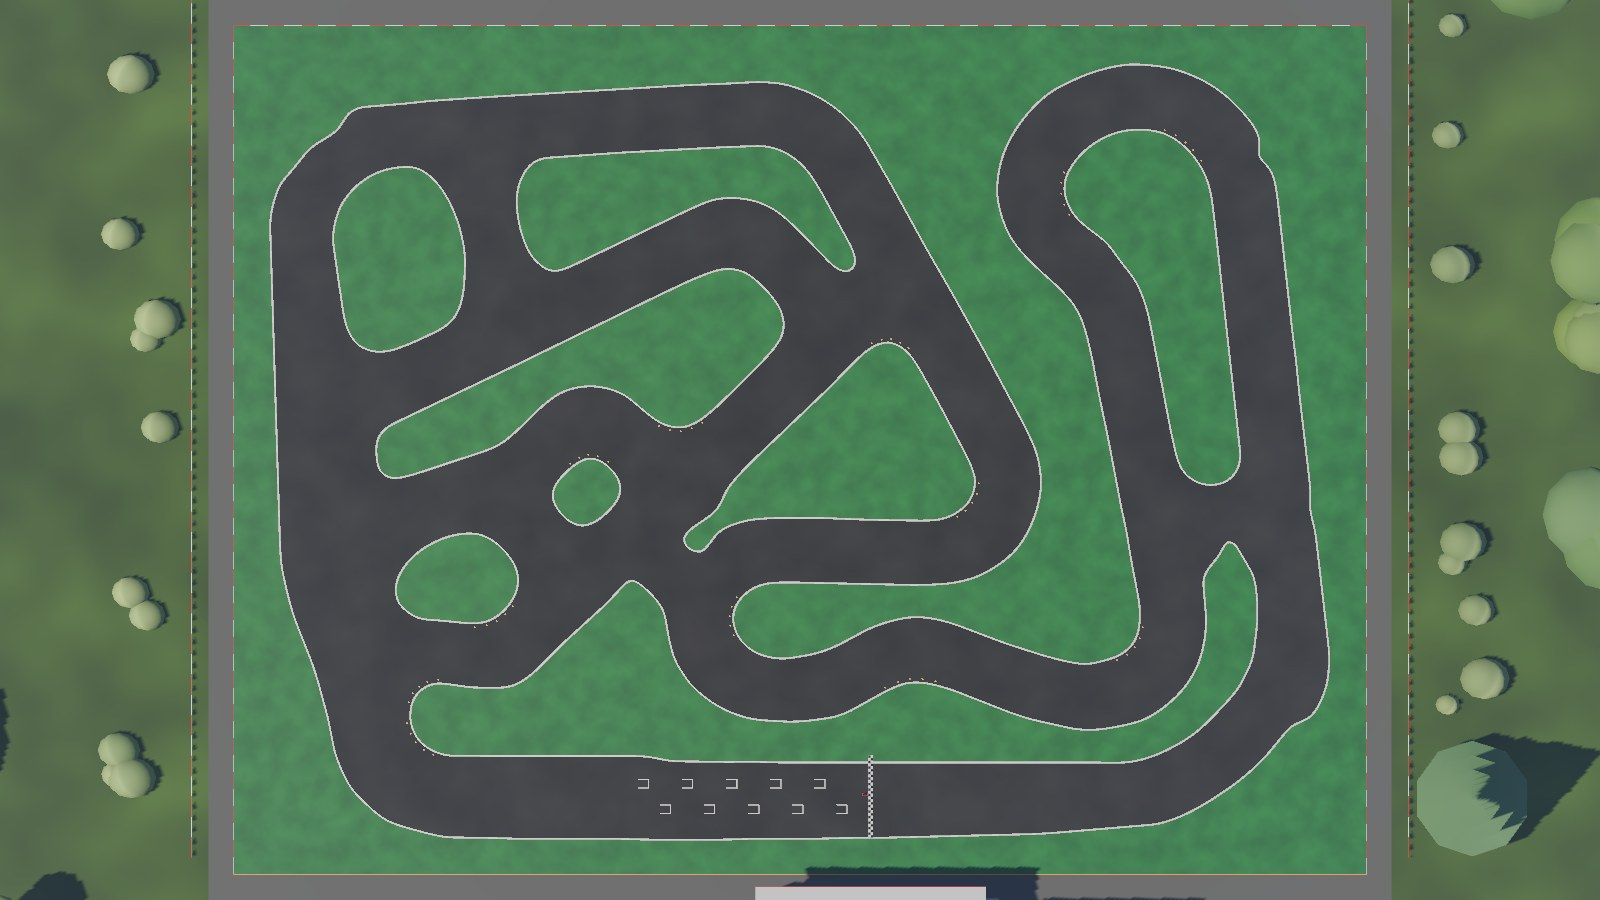
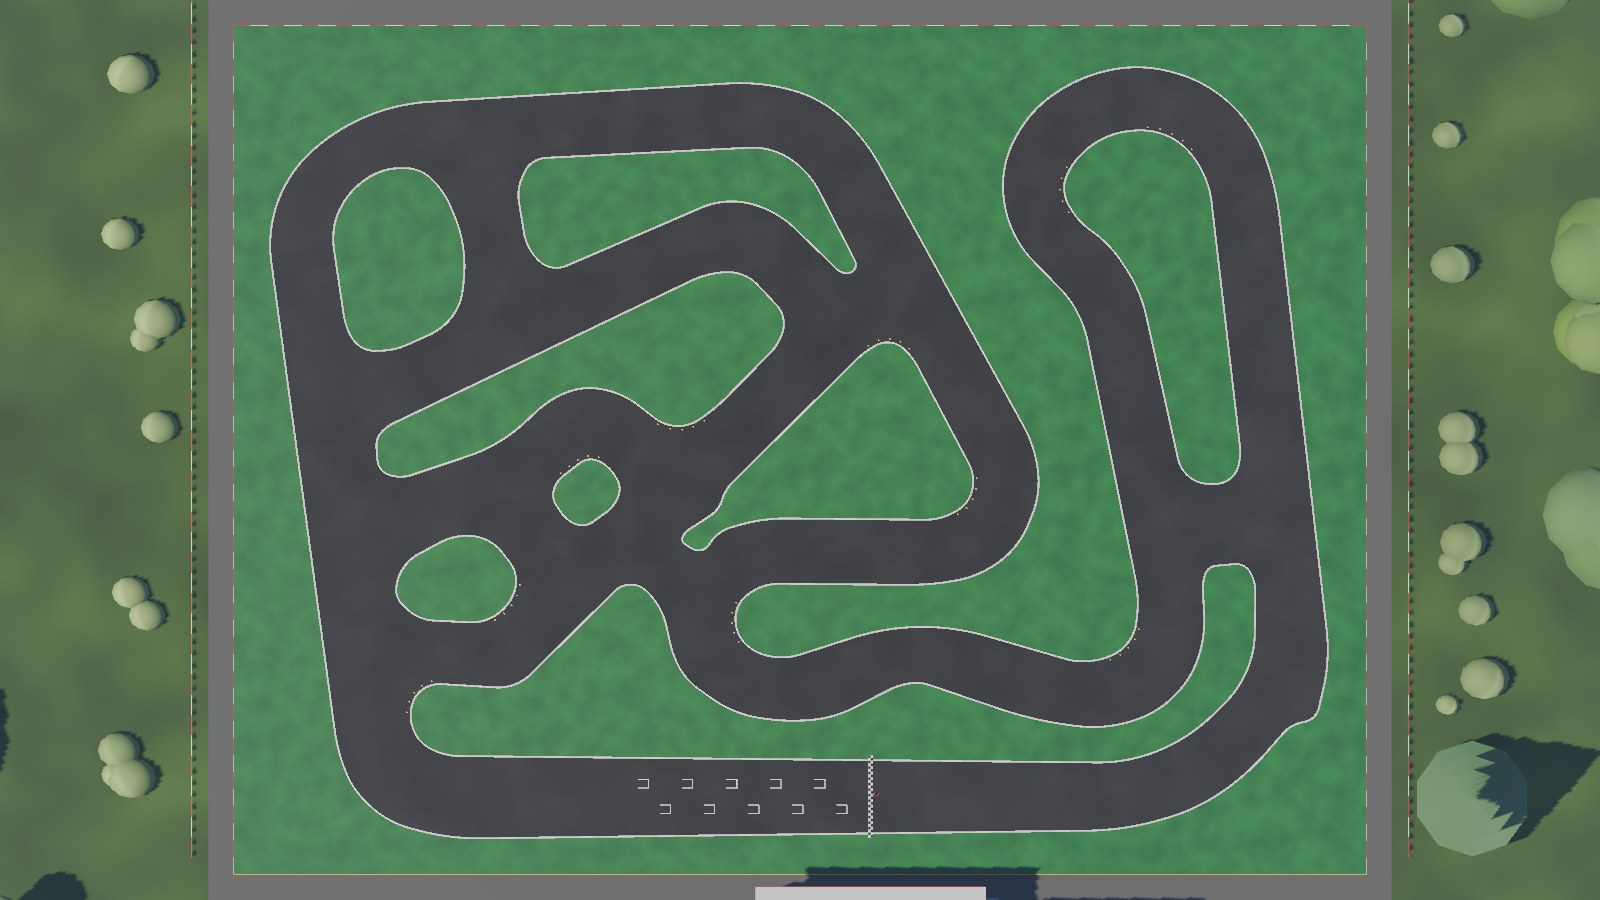
Verze 0.45: venkovní dráha Blansko, hladké hrany venkovních drah

diff --git a/index.html b/index.html
@@ -171,7 +171,7 @@ footer .wrap { display: flex; flex-wrap: wrap; gap: 8px 24px; justify-content: s
           <a class="btn-line" id="download-win" href="https://github.com/ibb-jile/onroad-rc-simulator/releases/latest/download/Onroad-RC-Simulator-Windows.zip"><span lang="cs">Windows (experimentální)</span><span lang="en">Windows (experimental)</span></a>
           <a href="#install"><span lang="cs">Jak nainstalovat</span><span lang="en">How to install</span></a>
         </div>
-        <p class="facts"><span lang="cs">Verze 0.44 · macOS 13 a novější · Mac s čipem Apple (M1 a novější) · zip 66 MB</span><span lang="en">Version 0.44 · macOS 13 or later · Mac with Apple silicon (M1 or later) · 66 MB zip</span></p>
+        <p class="facts"><span lang="cs">Verze 0.45 · macOS 13 a novější · Mac s čipem Apple (M1 a novější) · zip 66 MB</span><span lang="en">Version 0.45 · macOS 13 or later · Mac with Apple silicon (M1 or later) · 66 MB zip</span></p>
         <p class="facts"><span lang="cs">Windows 10 a 11 (64bit) · první sestavení, na skutečném PC zatím nevyzkoušené · zip 49 MB</span><span lang="en">Windows 10 and 11 (64-bit) · first build, not yet tried on a real PC · 49 MB zip</span></p>
       </div>
       <aside class="board" aria-label="Lap times">
@@ -180,7 +180,8 @@ footer .wrap { display: flex; flex-wrap: wrap; gap: 8px 24px; justify-content: s
           <tr><td><span lang="cs">Nákres 8 × 6</span><span lang="en">Sketch 8 × 6</span></td><td class="t">14.22<small>s</small></td></tr>
           <tr><td>Rychvald</td><td class="t">15.83<small>s</small></td></tr>
           <tr><td>Jedovnice</td><td class="t">13.82<small>s</small></td></tr>
-          <tr><td><span lang="cs">Svitavy (venkovní)</span><span lang="en">Svitavy (outdoor)</span></td><td class="t">18.31<small>s</small></td></tr>
+          <tr><td><span lang="cs">Svitavy (venkovní)</span><span lang="en">Svitavy (outdoor)</span></td><td class="t">18.14<small>s</small></td></tr>
+          <tr><td><span lang="cs">Blansko (venkovní)</span><span lang="en">Blansko (outdoor)</span></td><td class="t">12.51<small>s</small></td></tr>
         </table>
         <p class="note"><span lang="cs">Výchozí setup: motor 17.5T, převod 4.5, koberec 26.4 × 19.8 m. Dokážeš být rychlejší?</span><span lang="en">Default setup: 17.5T motor, 4.5 ratio, 26.4 × 19.8 m carpet. Can you beat it?</span></p>
       </aside>
@@ -220,7 +221,7 @@ footer .wrap { display: flex; flex-wrap: wrap; gap: 8px 24px; justify-content: s
         </div>
         <div>
           <h3><span lang="cs">Skutečné tratě</span><span lang="en">Real tracks</span></h3>
-          <p><span lang="cs">Čtyři kobercové tratě <span class="unit">26.4 × 19.8 m</span> s dělicími pásy, poklicemi a terči: Nákres 8 × 6, Jedovnice a Rychvald ve dvou podobách, s mantinely nebo s nízkými pásy, které jdou přejet. Časomíra měří kola na milisekundy a kolo se zkrácenou tratí nepočítá. Nově i venkovní asfaltová dráha Svitavy <span class="unit">46 × 62 m</span> s tribunou řidičů.</span><span lang="en">Four carpet tracks <span class="unit">26.4 × 19.8 m</span> with dividers, dots and apex markers: Sketch 8 × 6, Jedovnice and Rychvald in two versions, with barriers or with low strips you can drive over. Lap timing to the millisecond, and a lap with a cut track does not count. New: the outdoor asphalt track Svitavy <span class="unit">46 × 62 m</span> with a driver stand.</span></p>
+          <p><span lang="cs">Čtyři kobercové tratě <span class="unit">26.4 × 19.8 m</span> s dělicími pásy, poklicemi a terči: Nákres 8 × 6, Jedovnice a Rychvald ve dvou podobách, s mantinely nebo s nízkými pásy, které jdou přejet. Časomíra měří kola na milisekundy a kolo se zkrácenou tratí nepočítá. K tomu dvě venkovní asfaltové dráhy s tribunou řidičů: Svitavy <span class="unit">46 × 62 m</span> a Blansko <span class="unit">57 × 23 m</span>.</span><span lang="en">Four carpet tracks <span class="unit">26.4 × 19.8 m</span> with dividers, dots and apex markers: Sketch 8 × 6, Jedovnice and Rychvald in two versions, with barriers or with low strips you can drive over. Lap timing to the millisecond, and a lap with a cut track does not count. Plus two outdoor asphalt tracks with a driver stand: Svitavy <span class="unit">46 × 62 m</span> and Blansko <span class="unit">57 × 23 m</span>.</span></p>
         </div>
         <div>
           <h3><span lang="cs">Trénink</span><span lang="en">Practice tools</span></h3>
@@ -253,6 +254,14 @@ footer .wrap { display: flex; flex-wrap: wrap; gap: 8px 24px; justify-content: s
         <figure>
           <img src="img/svitavy-top.jpg" width="1600" height="900" loading="lazy" alt="Top view of the outdoor track Svitavy with the finish line and the starting grid">
           <figcaption><span lang="cs">Svitavy shora: 46 × 62 m, cílová čára a startovní rošt před tribunou.</span><span lang="en">Svitavy from above: 46 × 62 m, the finish line and the starting grid in front of the driver stand.</span></figcaption>
+        </figure>
+        <figure>
+          <img src="img/blansko-top.jpg" width="1600" height="900" loading="lazy" alt="Top view of the outdoor track Blansko with blue painted areas, hairpins and a long straight">
+          <figcaption><span lang="cs">Blansko shora: úzký areál 57 × 23 m, vlásenky a dlouhá rovinka u tribuny.</span><span lang="en">Blansko from above: a narrow 57 × 23 m venue, hairpins and a long straight along the driver stand.</span></figcaption>
+        </figure>
+        <figure>
+          <img src="img/blansko-stand.jpg" width="1600" height="900" loading="lazy" alt="View from the driver stand in Blansko with the car on the far side of the track">
+          <figcaption><span lang="cs">Blansko z tribuny: kamera řidiče přibližuje auto na vzdálené straně dráhy.</span><span lang="en">Blansko from the driver stand: the driver camera zooms in on the car on the far side.</span></figcaption>
         </figure>
         <figure>
           <img src="img/setup-esc.jpg" width="1600" height="900" loading="lazy" alt="Car setup dialog with ESC settings and a throttle and brake graph">

diff --git a/src/page.html b/src/page.html
@@ -165,7 +165,7 @@ footer .wrap { display: flex; flex-wrap: wrap; gap: 8px 24px; justify-content: s
           <a class="btn-line" id="download-win" href="https://github.com/ibb-jile/onroad-rc-simulator/releases/latest/download/Onroad-RC-Simulator-Windows.zip"><span lang="cs">Windows (experimentální)</span><span lang="en">Windows (experimental)</span></a>
           <a href="#install"><span lang="cs">Jak nainstalovat</span><span lang="en">How to install</span></a>
         </div>
-        <p class="facts"><span lang="cs">Verze 0.44 · macOS 13 a novější · Mac s čipem Apple (M1 a novější) · zip 66 MB</span><span lang="en">Version 0.44 · macOS 13 or later · Mac with Apple silicon (M1 or later) · 66 MB zip</span></p>
+        <p class="facts"><span lang="cs">Verze 0.45 · macOS 13 a novější · Mac s čipem Apple (M1 a novější) · zip 66 MB</span><span lang="en">Version 0.45 · macOS 13 or later · Mac with Apple silicon (M1 or later) · 66 MB zip</span></p>
         <p class="facts"><span lang="cs">Windows 10 a 11 (64bit) · první sestavení, na skutečném PC zatím nevyzkoušené · zip 49 MB</span><span lang="en">Windows 10 and 11 (64-bit) · first build, not yet tried on a real PC · 49 MB zip</span></p>
       </div>
       <aside class="board" aria-label="Lap times">
@@ -174,7 +174,8 @@ footer .wrap { display: flex; flex-wrap: wrap; gap: 8px 24px; justify-content: s
           <tr><td><span lang="cs">Nákres 8 × 6</span><span lang="en">Sketch 8 × 6</span></td><td class="t">14.22<small>s</small></td></tr>
           <tr><td>Rychvald</td><td class="t">15.83<small>s</small></td></tr>
           <tr><td>Jedovnice</td><td class="t">13.82<small>s</small></td></tr>
-          <tr><td><span lang="cs">Svitavy (venkovní)</span><span lang="en">Svitavy (outdoor)</span></td><td class="t">18.31<small>s</small></td></tr>
+          <tr><td><span lang="cs">Svitavy (venkovní)</span><span lang="en">Svitavy (outdoor)</span></td><td class="t">18.14<small>s</small></td></tr>
+          <tr><td><span lang="cs">Blansko (venkovní)</span><span lang="en">Blansko (outdoor)</span></td><td class="t">12.51<small>s</small></td></tr>
         </table>
         <p class="note"><span lang="cs">Výchozí setup: motor 17.5T, převod 4.5, koberec 26.4 × 19.8 m. Dokážeš být rychlejší?</span><span lang="en">Default setup: 17.5T motor, 4.5 ratio, 26.4 × 19.8 m carpet. Can you beat it?</span></p>
       </aside>
@@ -214,7 +215,7 @@ footer .wrap { display: flex; flex-wrap: wrap; gap: 8px 24px; justify-content: s
         </div>
         <div>
           <h3><span lang="cs">Skutečné tratě</span><span lang="en">Real tracks</span></h3>
-          <p><span lang="cs">Čtyři kobercové tratě <span class="unit">26.4 × 19.8 m</span> s dělicími pásy, poklicemi a terči: Nákres 8 × 6, Jedovnice a Rychvald ve dvou podobách, s mantinely nebo s nízkými pásy, které jdou přejet. Časomíra měří kola na milisekundy a kolo se zkrácenou tratí nepočítá. Nově i venkovní asfaltová dráha Svitavy <span class="unit">46 × 62 m</span> s tribunou řidičů.</span><span lang="en">Four carpet tracks <span class="unit">26.4 × 19.8 m</span> with dividers, dots and apex markers: Sketch 8 × 6, Jedovnice and Rychvald in two versions, with barriers or with low strips you can drive over. Lap timing to the millisecond, and a lap with a cut track does not count. New: the outdoor asphalt track Svitavy <span class="unit">46 × 62 m</span> with a driver stand.</span></p>
+          <p><span lang="cs">Čtyři kobercové tratě <span class="unit">26.4 × 19.8 m</span> s dělicími pásy, poklicemi a terči: Nákres 8 × 6, Jedovnice a Rychvald ve dvou podobách, s mantinely nebo s nízkými pásy, které jdou přejet. Časomíra měří kola na milisekundy a kolo se zkrácenou tratí nepočítá. K tomu dvě venkovní asfaltové dráhy s tribunou řidičů: Svitavy <span class="unit">46 × 62 m</span> a Blansko <span class="unit">57 × 23 m</span>.</span><span lang="en">Four carpet tracks <span class="unit">26.4 × 19.8 m</span> with dividers, dots and apex markers: Sketch 8 × 6, Jedovnice and Rychvald in two versions, with barriers or with low strips you can drive over. Lap timing to the millisecond, and a lap with a cut track does not count. Plus two outdoor asphalt tracks with a driver stand: Svitavy <span class="unit">46 × 62 m</span> and Blansko <span class="unit">57 × 23 m</span>.</span></p>
         </div>
         <div>
           <h3><span lang="cs">Trénink</span><span lang="en">Practice tools</span></h3>
@@ -247,6 +248,14 @@ footer .wrap { display: flex; flex-wrap: wrap; gap: 8px 24px; justify-content: s
         <figure>
           <img src="img/svitavy-top.jpg" width="1600" height="900" loading="lazy" alt="Top view of the outdoor track Svitavy with the finish line and the starting grid">
           <figcaption><span lang="cs">Svitavy shora: 46 × 62 m, cílová čára a startovní rošt před tribunou.</span><span lang="en">Svitavy from above: 46 × 62 m, the finish line and the starting grid in front of the driver stand.</span></figcaption>
+        </figure>
+        <figure>
+          <img src="img/blansko-top.jpg" width="1600" height="900" loading="lazy" alt="Top view of the outdoor track Blansko with blue painted areas, hairpins and a long straight">
+          <figcaption><span lang="cs">Blansko shora: úzký areál 57 × 23 m, vlásenky a dlouhá rovinka u tribuny.</span><span lang="en">Blansko from above: a narrow 57 × 23 m venue, hairpins and a long straight along the driver stand.</span></figcaption>
+        </figure>
+        <figure>
+          <img src="img/blansko-stand.jpg" width="1600" height="900" loading="lazy" alt="View from the driver stand in Blansko with the car on the far side of the track">
+          <figcaption><span lang="cs">Blansko z tribuny: kamera řidiče přibližuje auto na vzdálené straně dráhy.</span><span lang="en">Blansko from the driver stand: the driver camera zooms in on the car on the far side.</span></figcaption>
         </figure>
         <figure>
           <img src="img/setup-esc.jpg" width="1600" height="900" loading="lazy" alt="Car setup dialog with ESC settings and a throttle and brake graph">
